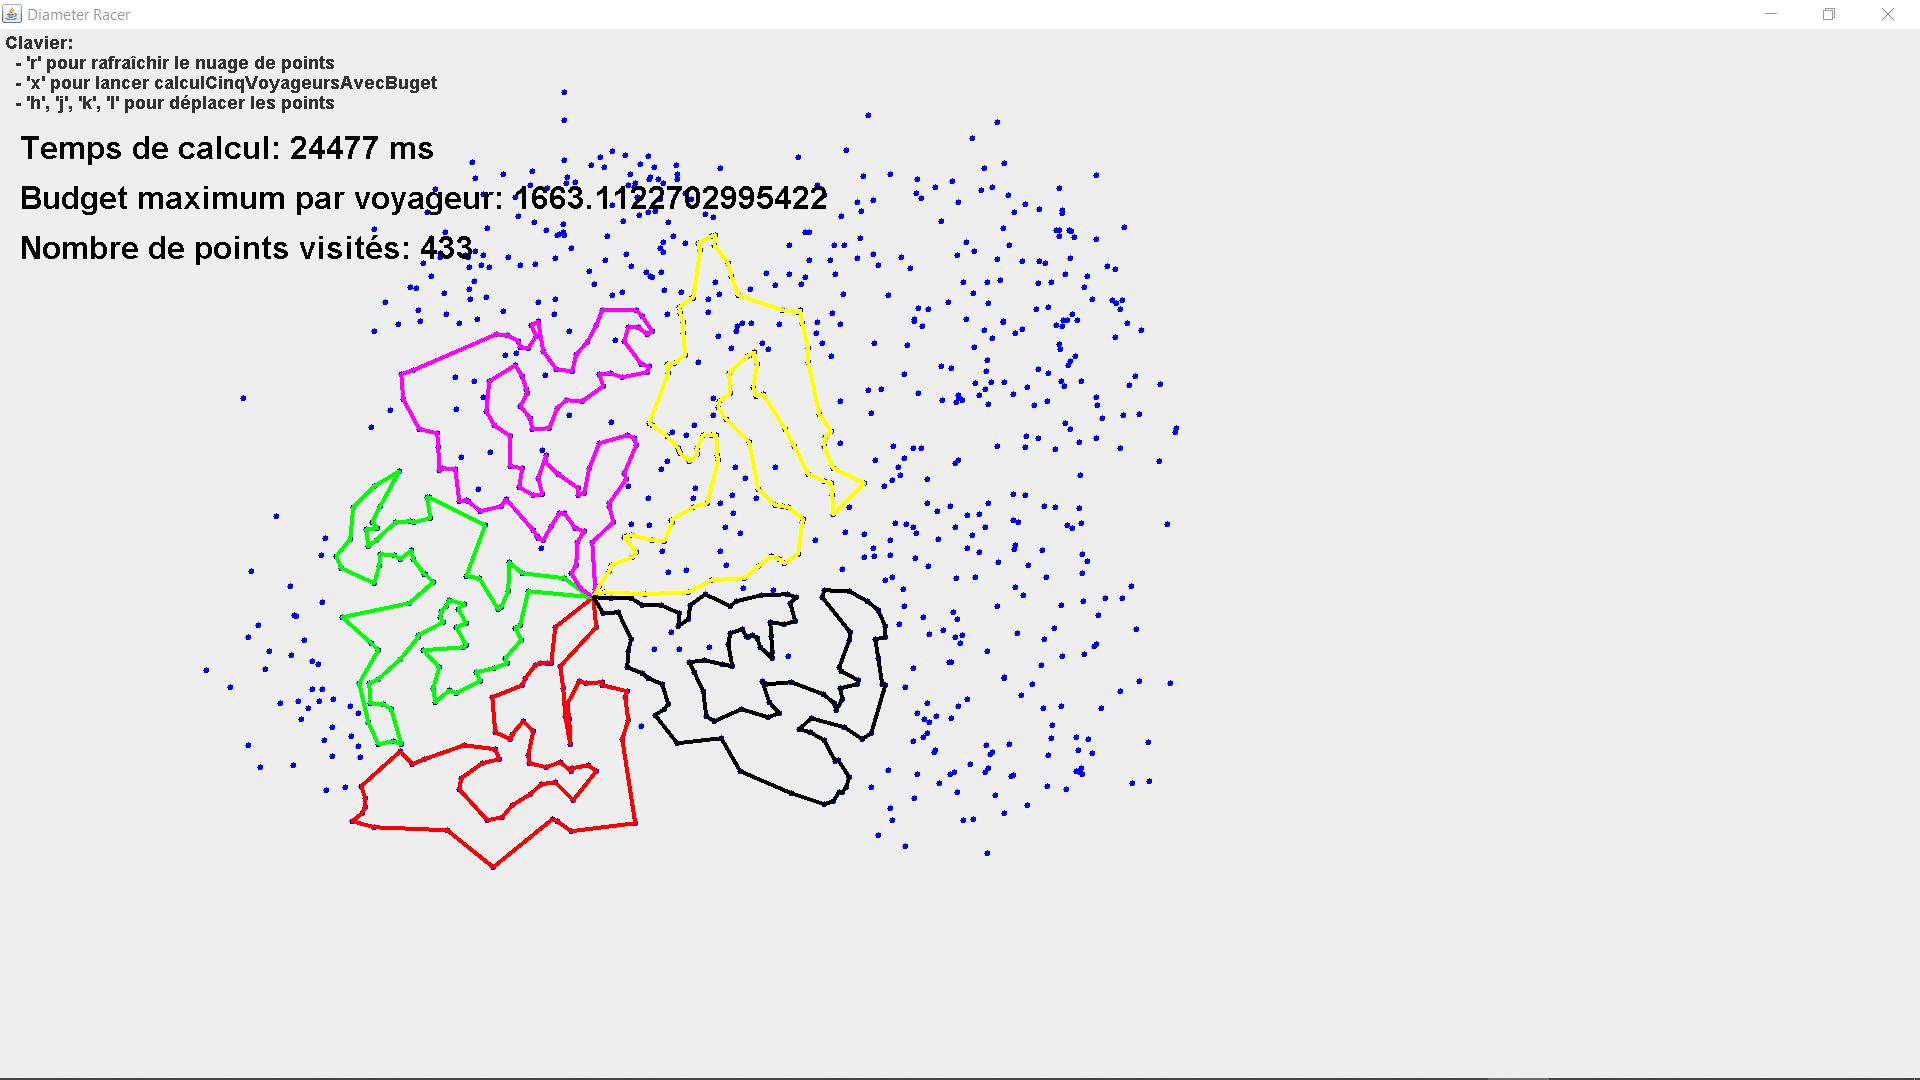
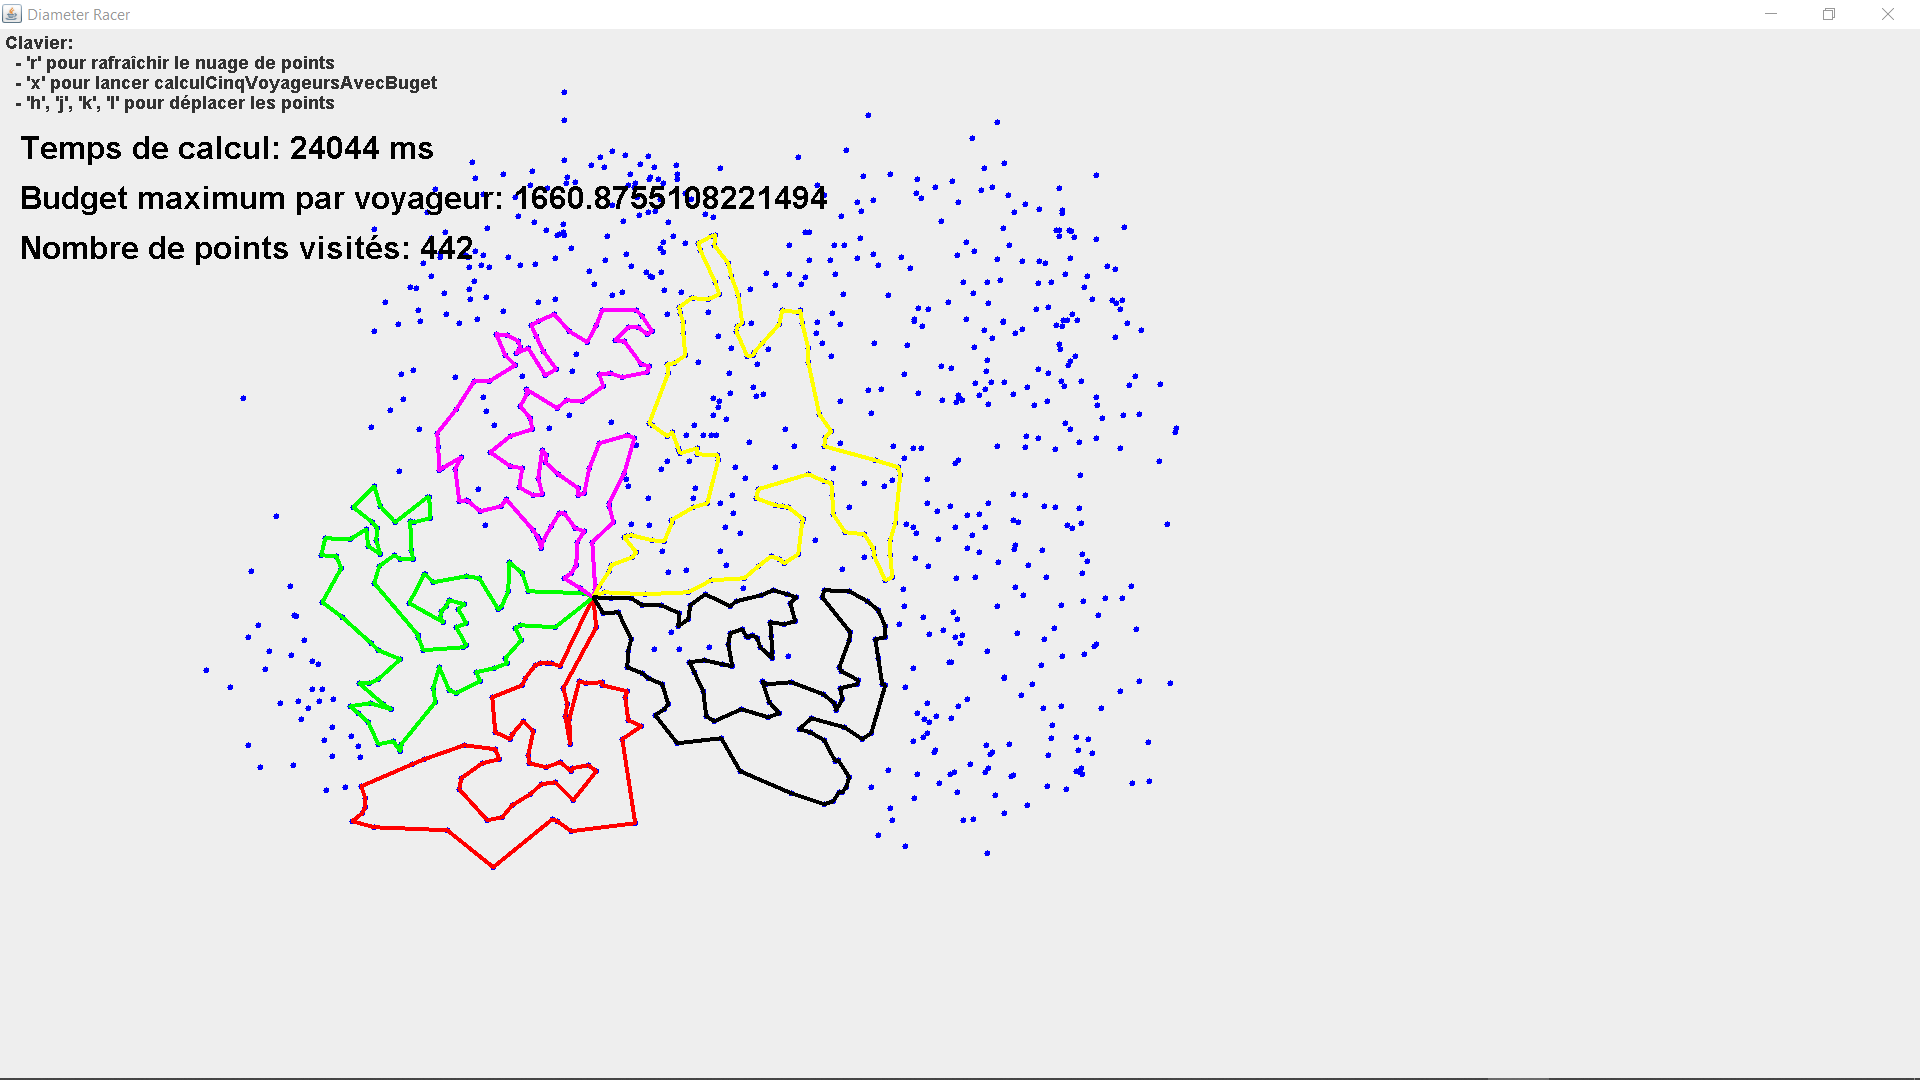
441 points

diff --git a/src/algorithms/DefaultTeam.java b/src/algorithms/DefaultTeam.java
@@ -113,6 +113,7 @@ public class DefaultTeam {
 	private ArrayList<Point> reduce_budget(ArrayList<Point> points, Point maison, double budget) {
 		double currentCost = score(points);
 		int iter = 0;
+		int initialNumberPoints = points.size();
 
 		TreeMap<Double, ArrayList<Point>> heap = new TreeMap<>();
 
@@ -134,7 +135,7 @@ public class DefaultTeam {
 			int IndexOfPointToRemove = 1;
 			double mostCostDecrease = 0;
 
-			if (iter < 0.9*points.size()) {
+			if (iter < 0.62*initialNumberPoints) {
 				double farthestDistance = heap.lastKey();
 				if (heap.get(farthestDistance).size() > 1) {
 					pointToRemove = heap.get(farthestDistance).remove(0);
